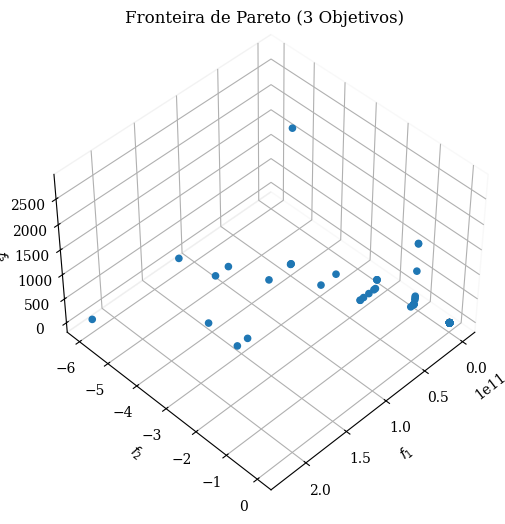
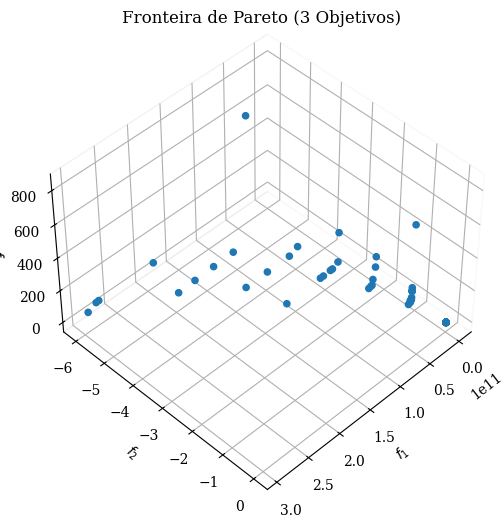
theta diminuindo e aumentando

diff --git a/FLPOPT/flopt.py b/FLPOPT/flopt.py
@@ -1,3 +1,4 @@
+import numpy as np
 from .solver import FLSolver
 from .problem import FederatedLearningProblem
 from .flopt_util import print_solution_details
@@ -12,12 +13,31 @@ class FLPOPT:
         self.S=S
         self.problem = FederatedLearningProblem(N, alpha, c, S, f_min, f_max, epsilon_0, theta_prev, T_min, T_max)
         self.res = None
+        self._beta_h=np.zeros(N)
+        self._theta_prev=theta_prev
+
+    @property
+    def beta_h(self):
+        return self._beta_h
+
+    @beta_h.setter
+    def beta_h(self,beta_h:np.array):
+        self._beta_h=beta_h
+        self.problem.beta_h=beta_h
+
+    @property
+    def theta_prev(self):
+        return self._theta_prev
+
+    @beta_h.setter
+    def theta_prev(self,theta:np.array):
+        self._theta_prev=theta
+        self.problem.theta_prev=theta
+
 
     def solve(self, n_gen=500, pop_size=150, **kwargs):
         self.solver = FLSolver(self.problem,pop_size=pop_size)
         self.res=self.solver.solve(n_gen=n_gen, **kwargs)
-        for solucao in self.res.F:
-            solucao[1]=-solucao[1]
         return self.res
 
     def scatterplot(self):

diff --git a/evolucao.py b/evolucao.py
@@ -36,17 +36,21 @@ columns+=[f'psi_{i}' for i in range(N)]
 
 df=pd.DataFrame(columns=columns)
 
-for t in range(20):
+T=T_max
+t=0
+while T_max >0.01 and t<10:
     print(f"Iniciando a otimização rodada {t}")
-    res = instancia.solve(n_gen=200, pop_size=100, verbose=False,seed=10)
+    res = instancia.solve(n_gen=200, pop_size=150)
 
-    print("\n--- DETALHAMENTO DAS SOLUÇÕES DA FRONTEIRA DE PARETO ---")
-    
     pesos = [0.3, 0.4, 0.3]
     idx= instancia.mcdm_pseudo_weights(pesos,verbose=True)
     solucao_vars=res.X[idx]
-    instancia.problem.beta_h+=np.array([solucao_vars[f'beta_{n}'] for n in range(N)])
-    df.append(solucao_vars)
+
+    instancia.beta_h+=1-np.array([solucao_vars[f'beta_{n}'] for n in range(N)])
+    instancia.theta_prev=np.array([solucao_vars[f'theta_{n}'] for n in range(N)])
+    df.loc[len(df)]=solucao_vars
+    T=res.F[3]
+    t+=1
 
 df.to_csv('saida.csv')
 

diff --git a/multi_objetivo.py b/multi_objetivo.py
@@ -28,10 +28,7 @@ T_max = 500.0
 instancia=FLPOPT(N, alpha, c, S, f_min, f_max, epsilon_0, theta_prev)
 
 print("Iniciando a otimização com 3 objetivos...")
-res = instancia.solve(n_gen=200, pop_size=100, verbose=False,seed=10)
-
-for solucao in res.F:
-    solucao[1]=-solucao[1]
+res = instancia.solve(n_gen=200, pop_size=100, seed=1)
 
 # ======================================================================
 # 4. EXIBIÇÃO DOS RESULTADOS E PLOTAGEM
@@ -53,7 +50,7 @@ if res.F is not None:
     
     
     
-    instancia.scatterplot()
+    # instancia.scatterplot()
     
             
 else:

diff --git a/FLPOPT/problem.py b/FLPOPT/problem.py
@@ -66,8 +66,8 @@ class FederatedLearningProblem(ElementwiseProblem):
         obj1 = np.sum(beta_vals * psi_vals * G_theta * (self.alpha / 2) * self.c * self.S * (f_vals**2))
         
         # f2: max \sum beta_n -> min -\sum beta_n
-        pbj2= beta_vals*(1+(self.S/self.S.sum())*self.beta_h)
-        obj2 = -np.sum(beta_vals)
+        obj2= beta_vals*(1+(self.S/self.S.sum())*(1-self.beta_h))
+        obj2 = -np.sum(obj2)
         
         # f3: min G(theta_n) * T
         # Assumindo que queremos minimizar o tempo total ponderado pelos clientes selecionados

diff --git a/FLPOPT/solver.py b/FLPOPT/solver.py
@@ -15,13 +15,10 @@ class FLSolver:
             eliminate_duplicates=MixedVariableDuplicateElimination()
         )
 
-    def solve(self, n_gen=500, seed=1, verbose=False, save_history=False):
+    def solve(self, n_gen=500, **kwargs):
         res = minimize(
             self.problem,
             self.algorithm,
-            seed=seed, 
-            verbose=verbose, 
-            save_history=save_history,
-            termination=('n_gen', n_gen)
+            termination=('n_gen', n_gen), **kwargs
         )
         return res
